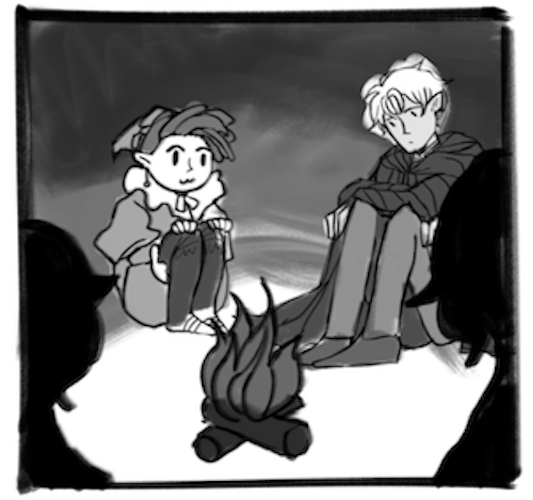
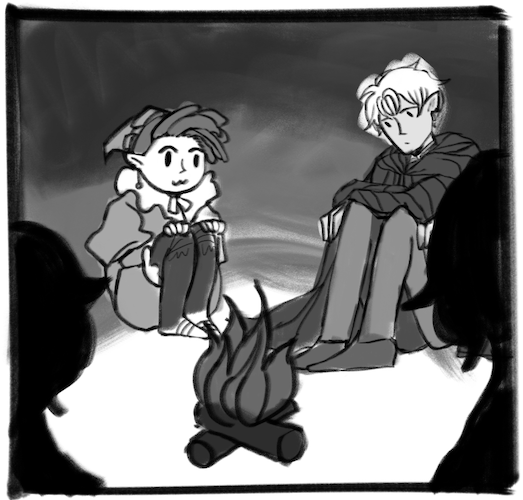
learning journal #4

Changed region(s): [[0.0, 0.0, 1.0, 1.0], [0.5813, 0.87, 0.6119, 0.9]]

diff --git a/studio1/index.html b/studio1/index.html
@@ -5,6 +5,9 @@
     <meta http-equiv="X-UA-Compatible" content="IE=edge">
     <meta name="viewport" content="width=device-width, initial-scale=1.0">
     <link rel="stylesheet" href="https://use.typekit.net/irn3zns.css">
+    <link rel="preconnect" href="https://fonts.googleapis.com"> 
+    <link rel="preconnect" href="https://fonts.gstatic.com" crossorigin> 
+    <link href="https://fonts.googleapis.com/css2?family=Niconne&family=Patrick+Hand&display=swap" rel="stylesheet">
     <link href="styles.css" rel="stylesheet">
     <title>MadLibs Wahoo</title>
     <script src="script.js" defer></script>
@@ -64,26 +67,26 @@
         <h2>Comic</h2>
 
         <div id="panel1">
-            <img src="images/panel1.png" alt="first panel" >
+            <img src="images/panel1.png" alt="first panel" height="500" width="523">
         </div>
 
         <div id="panel2">
             <p></p>
-            <img src="images/panel2.png" alt="second panel" >
+            <img src="images/panel2.png" alt="second panel" height="500" width="578">
         </div>
 
         <div id="panel3">
-            <img src="images/panel3.png" alt="third panel" >
+            <img src="images/panel3.png" alt="third panel" height="500" width="780">
             <p></p>
         </div>
 
         <div id="panel4">
-            <img src="images/panel4.png" alt="fourth panel" >
+            <img src="images/panel4.png" alt="fourth panel" height="500" width="566">
             <p>...</p>
         </div>
 
         <div id="panel5">
-            <img src="images/panel5.png" alt="first panel" >
+            <img src="images/panel5.png" alt="first panel" height="500" width="682">
             <p></p>
         </div>
     </section>

diff --git a/studio1/styles.css b/studio1/styles.css
@@ -19,6 +19,15 @@ h1 {
     position: relative;
 }
 
+img {
+    max-width: 100%;
+    height: auto;
+}
+
+#comic p {
+    
+}
+
 #panel2 p {
     position: absolute;
     width: 10em;
@@ -59,10 +68,20 @@ form {
     border-radius: 1em;
     padding: 2em;
     float: right;
-    margin-right: 10vw;
-    width: 30vw;
     text-align: center;
+    font-family: 'Futura';;
 }
+
+h2 {
+    font-family: 'Futura';
+}
+
+p {
+    font-family: 'Patrick Hand', cursive;
+}
+ #panel3 p {
+    font-family: 'Niconne', cursive;
+ }
 
 .hidden {
     display: none;
@@ -115,7 +134,8 @@ header div {
    }
 
    form {
-    margin-left: 10vw; 
+    margin-right: 10vw; 
     margin-top: 0;
+    width: 30vw;
    }
 }
